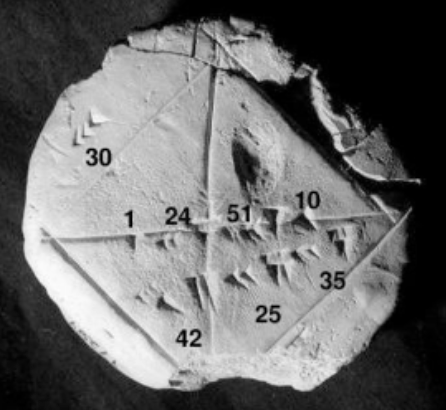
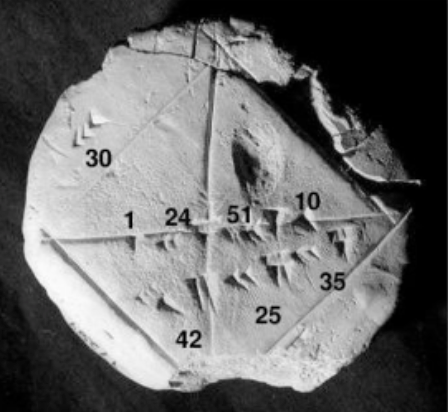
feat: add Babylonian Tablet image to numerical analysis lecture 2.1

diff --git a/learn/numerical-analysis/lecture-2-1.html b/learn/numerical-analysis/lecture-2-1.html
@@ -146,6 +146,8 @@
                     <div class="grid md:grid-cols-2 gap-6 mt-6">
                         <div class="bg-gray-100 p-4 rounded">
                             <h4 class="font-bold mb-2">Historical Example: Babylonian Tablet</h4>
+                            <img src="assets/baby.png" alt="Babylonian Tablet"
+                                class="w-full rounded mb-2 border border-gray-300">
                             <p class="text-sm mb-2">Dated 1800-1600 BC. Approximation of $\sqrt{2}$:</p>
                             <p class="font-mono text-center my-2 text-blue-700">$$1 + 24/60 + 51/60^2 + 10/60^3$$</p>
                             <p class="text-center font-bold">$= 1.41421296...$</p>
